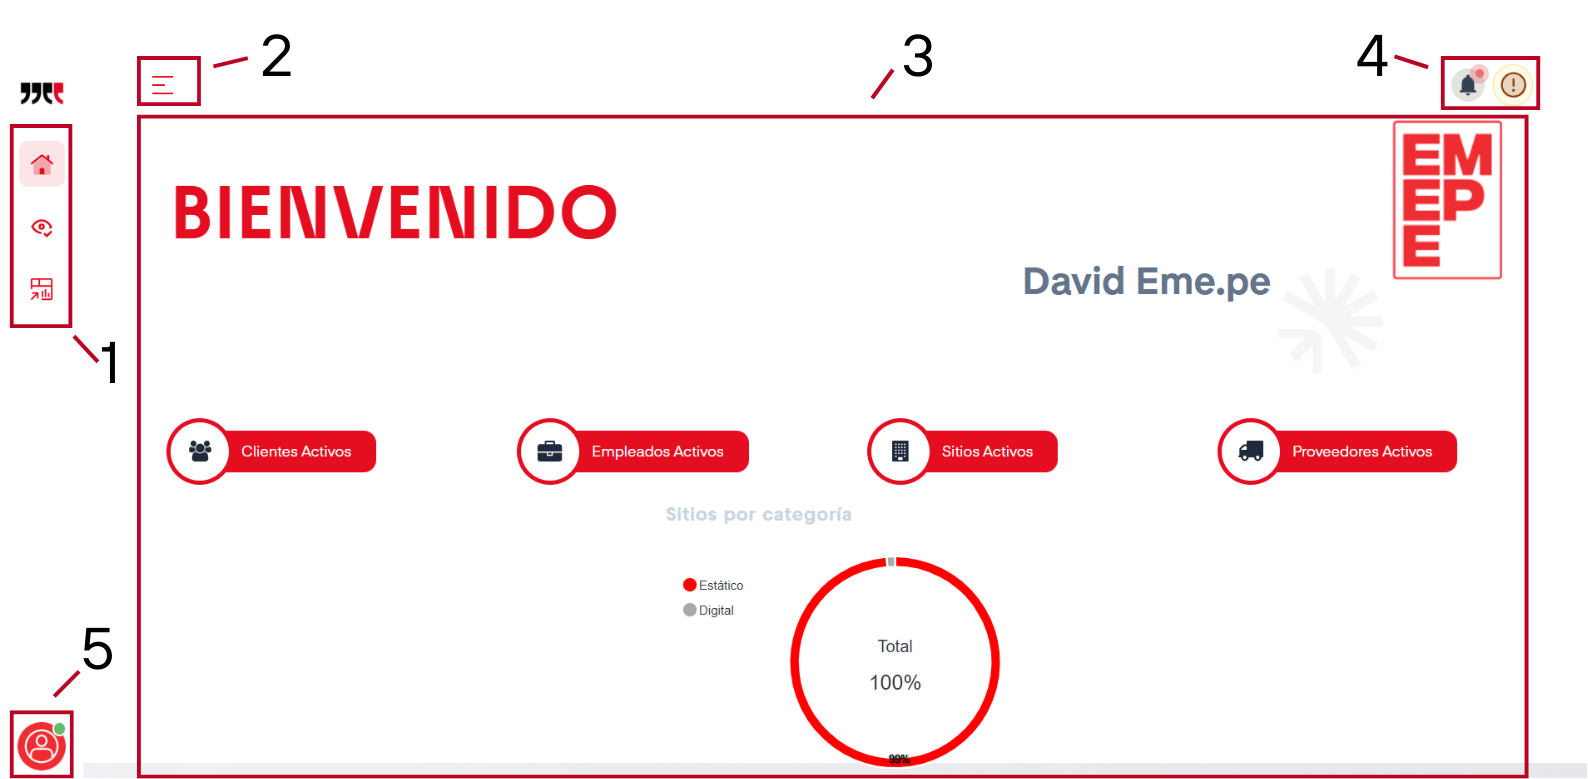
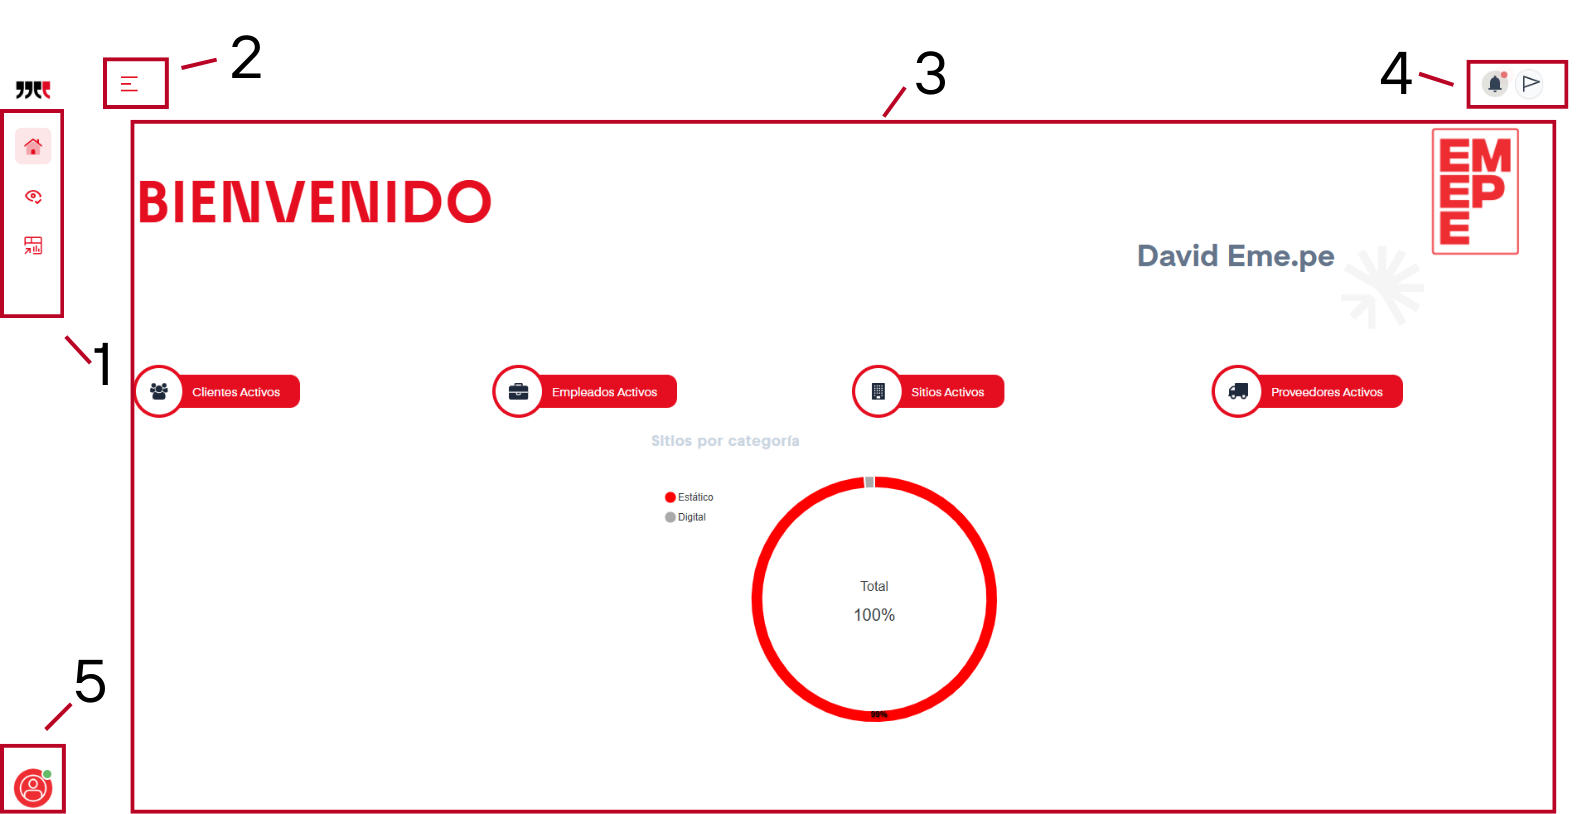
added new page features

diff --git a/docs/portales/inicio.md b/docs/portales/inicio.md
@@ -1,0 +1,54 @@
+# Inicio
+
+Esta es la primera pantalla que veremos al acceder a la aplicación web SIP. Desde esta pantalla podremos viajar a cada una de las opciones que la aplicación nos ofrece.
+
+A continuación mostraremos una captura de esta pantalla con sus distintas secciones enumeradas, posteriormente se explicará qué uso tiene cada una de estas.
+
+![mainDashboard](../assets/inicioEnum.png)
+
+## Secciones
+
+### 1. Barra Lateral 
+
+En esta primera barra lateral tendremos la opción de viajar a tres portales principales:
+
+<a href="../../portales/inicio/">Inicio</a> : La pantalla en la que nos encontramos.
+
+<a href="../../portales/testigos/">Testigos</a> : En esta sección se ven las Tomas de Testigos, tendremos opción de Aprobar o rechazar las tomas, de ser aprobadas desaparecerán de este dashboard. En cambio si rechazamos la toma, habrá que agregar la razón por la que se rechaza la toma. A diferencia de las tomas aprobadas, las tomas rechazadas aparecerán en el fondo de la página.
+
+<a href="../../portales/cliente/">Cliente</a> : Se despliega un resumen con la información relevante respecto a clientes. Visualizaciones totales, incremento mensual, vistas contratadas, promedio de visualizaciones, vistas por renovar y pendientes. Aparece también una gráfica de barras que compara el año anterior con el presente.
+
+### 2. Selector de dashboards
+
+Fuera del dashboard de Inicio del cual ya hablamos previamente, existen diferentes Dashboards que está divididos por categorías. Estas categorías son:
+
+- <a href="../../oferta/sitios/">Oferta</a> 
+
+- <a href="../../ventas/analisis/">Ventas</a>
+
+- <a href="../../facturacion/solicitud/">Facturación</a>
+
+- <a href="../../dashboard/comercial/">Dashboard</a>
+
+- <a href="../../contactos/clientes/">Contactos</a>
+
+- <a href="../../operaciones/empleados/">Operaciones</a>
+
+- <a href="../../catalogos/sectores/">Catalogos</a>
+
+- <a href="../../clasificacion/plataformas/">Clasificación</a>
+
+- <a href="../../sistema/config/">Sistema</a>
+
+### 3. Pantalla principal
+Como ya se explico durante el primer punto, esta no es más que una bienvenida y también un resumen con la cantidad de clientes, empleados, sitios y proveedores activos, así mismo cuenta con una grafica de pastel con los sitios por categoría.
+
+### 4. Notificaciones y Reportar un Problema
+
+Notificaciones: Cualquier acción realizada sobre cotizaciones se verán reflejadas aquí.
+
+Reportar un Problema: Representada por una bandera, este botón muestra un formulario donde podemos subir
+
+### 5. Perfil 
+
+Muestra una pantalla con los datos del usuario (Nomrbe de Usuario y Correo) además de un botón para cerrar la sesión.
